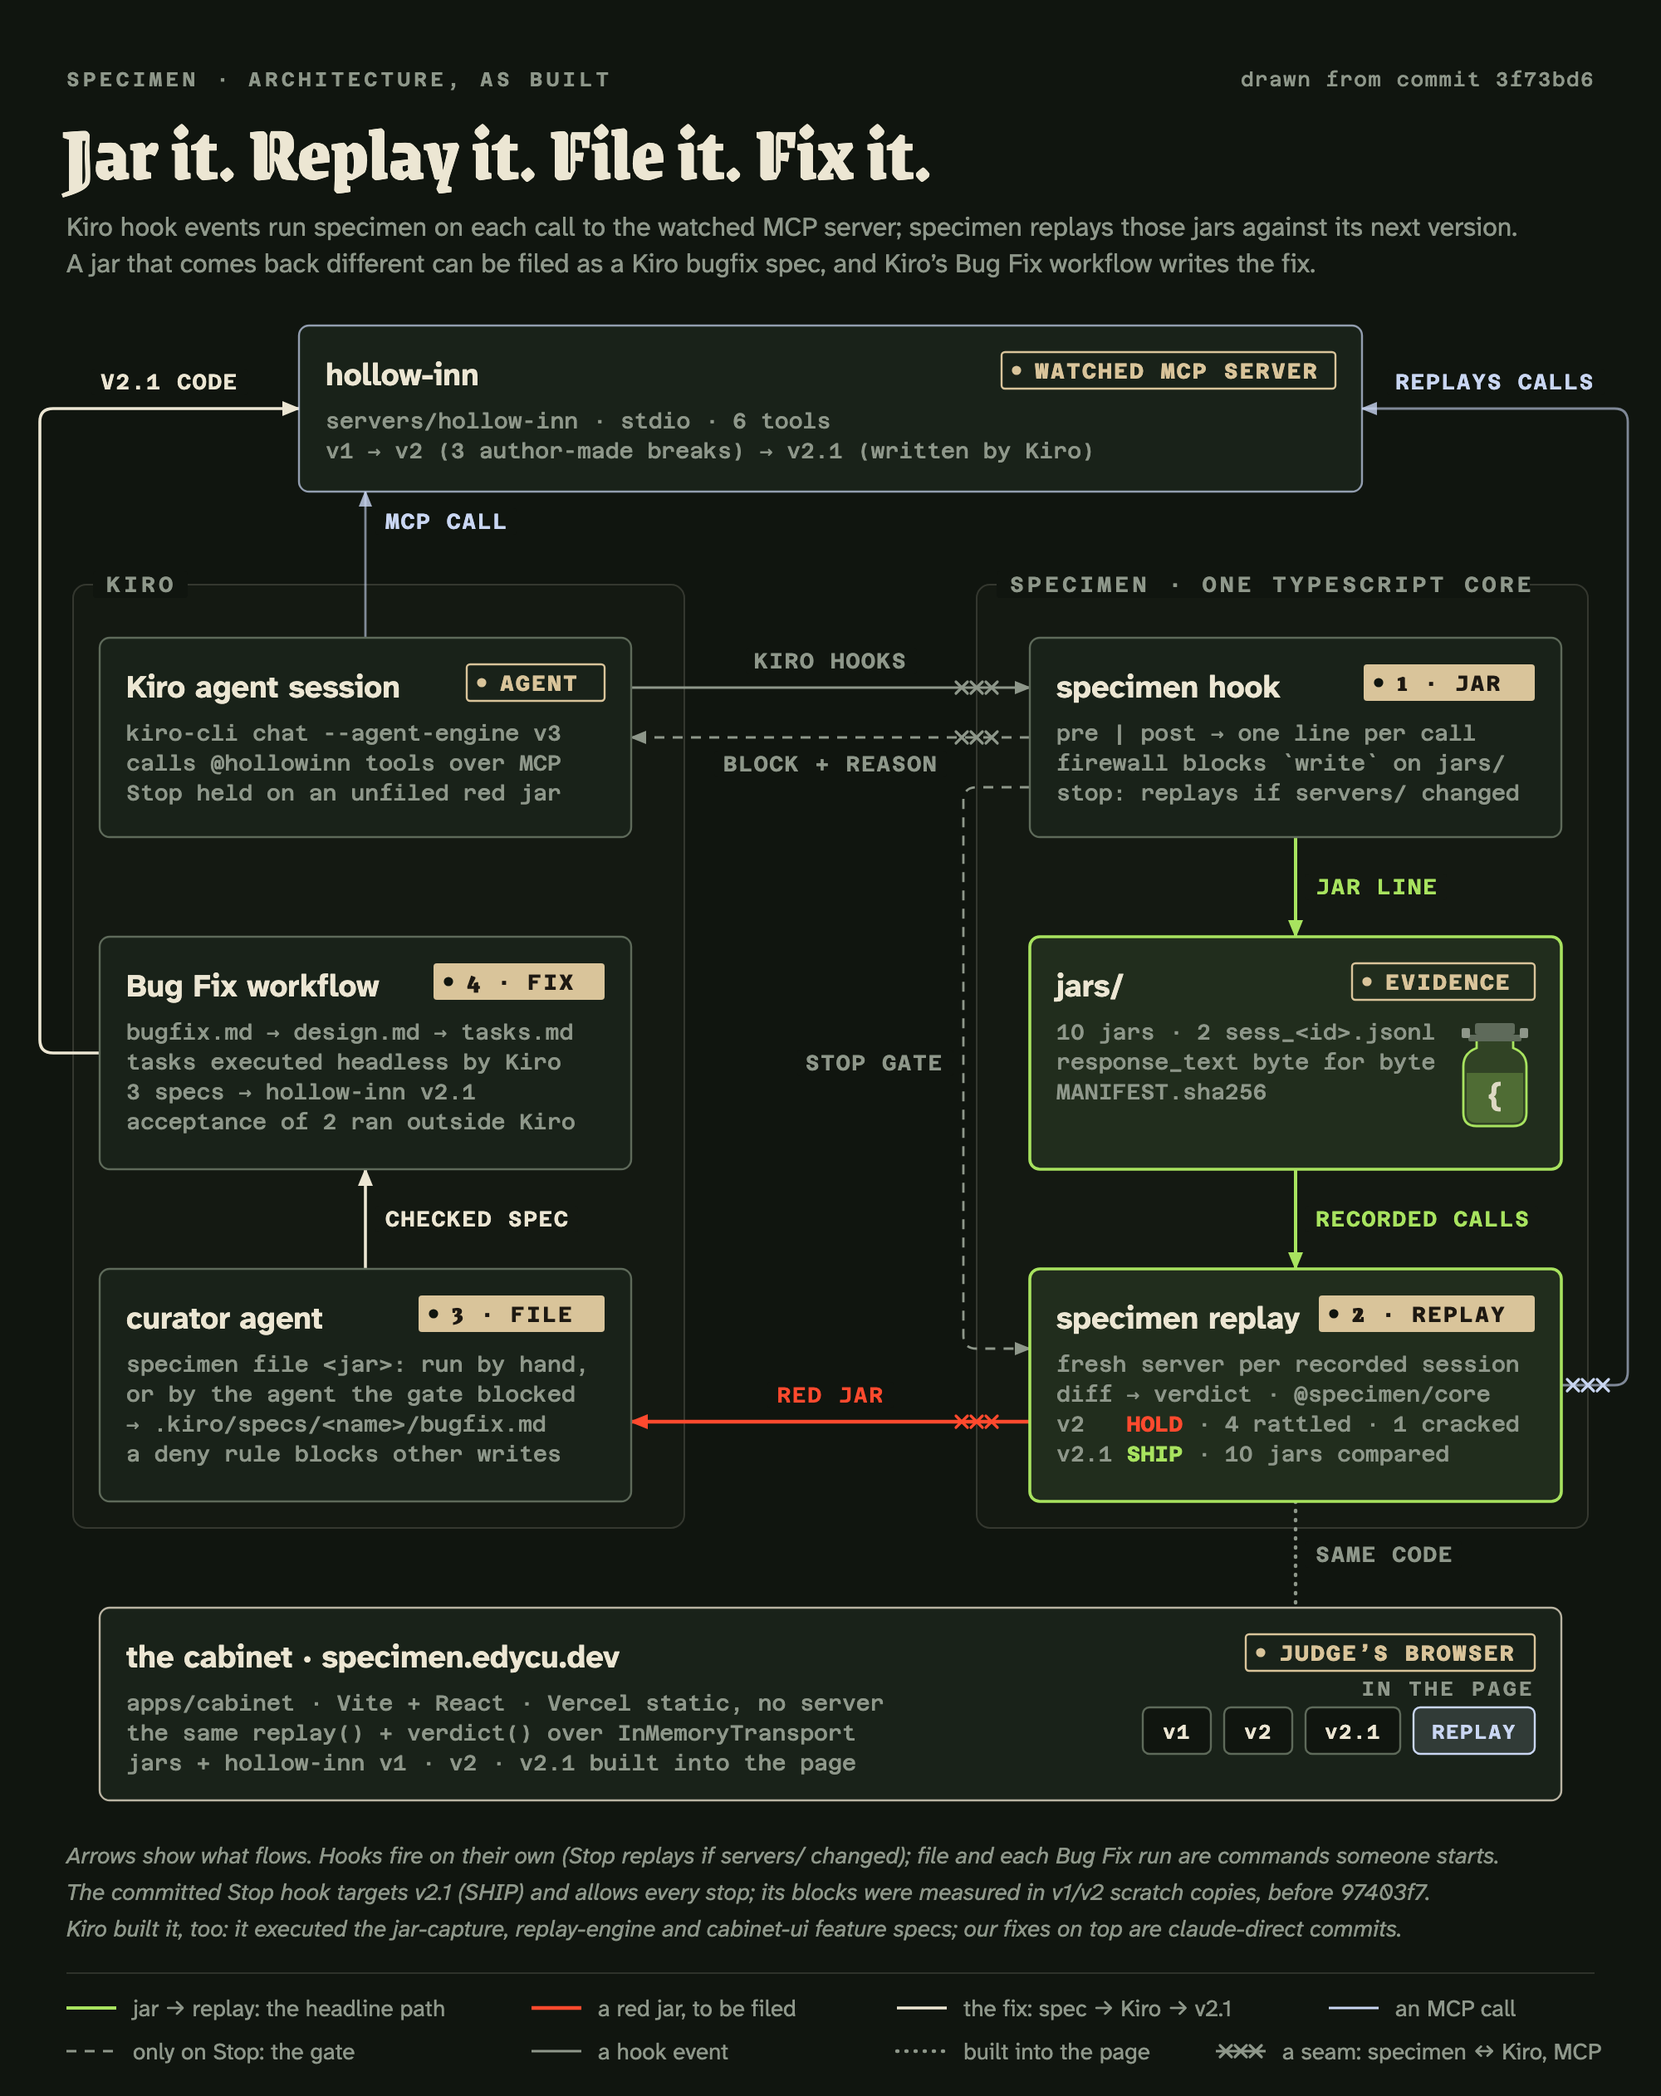
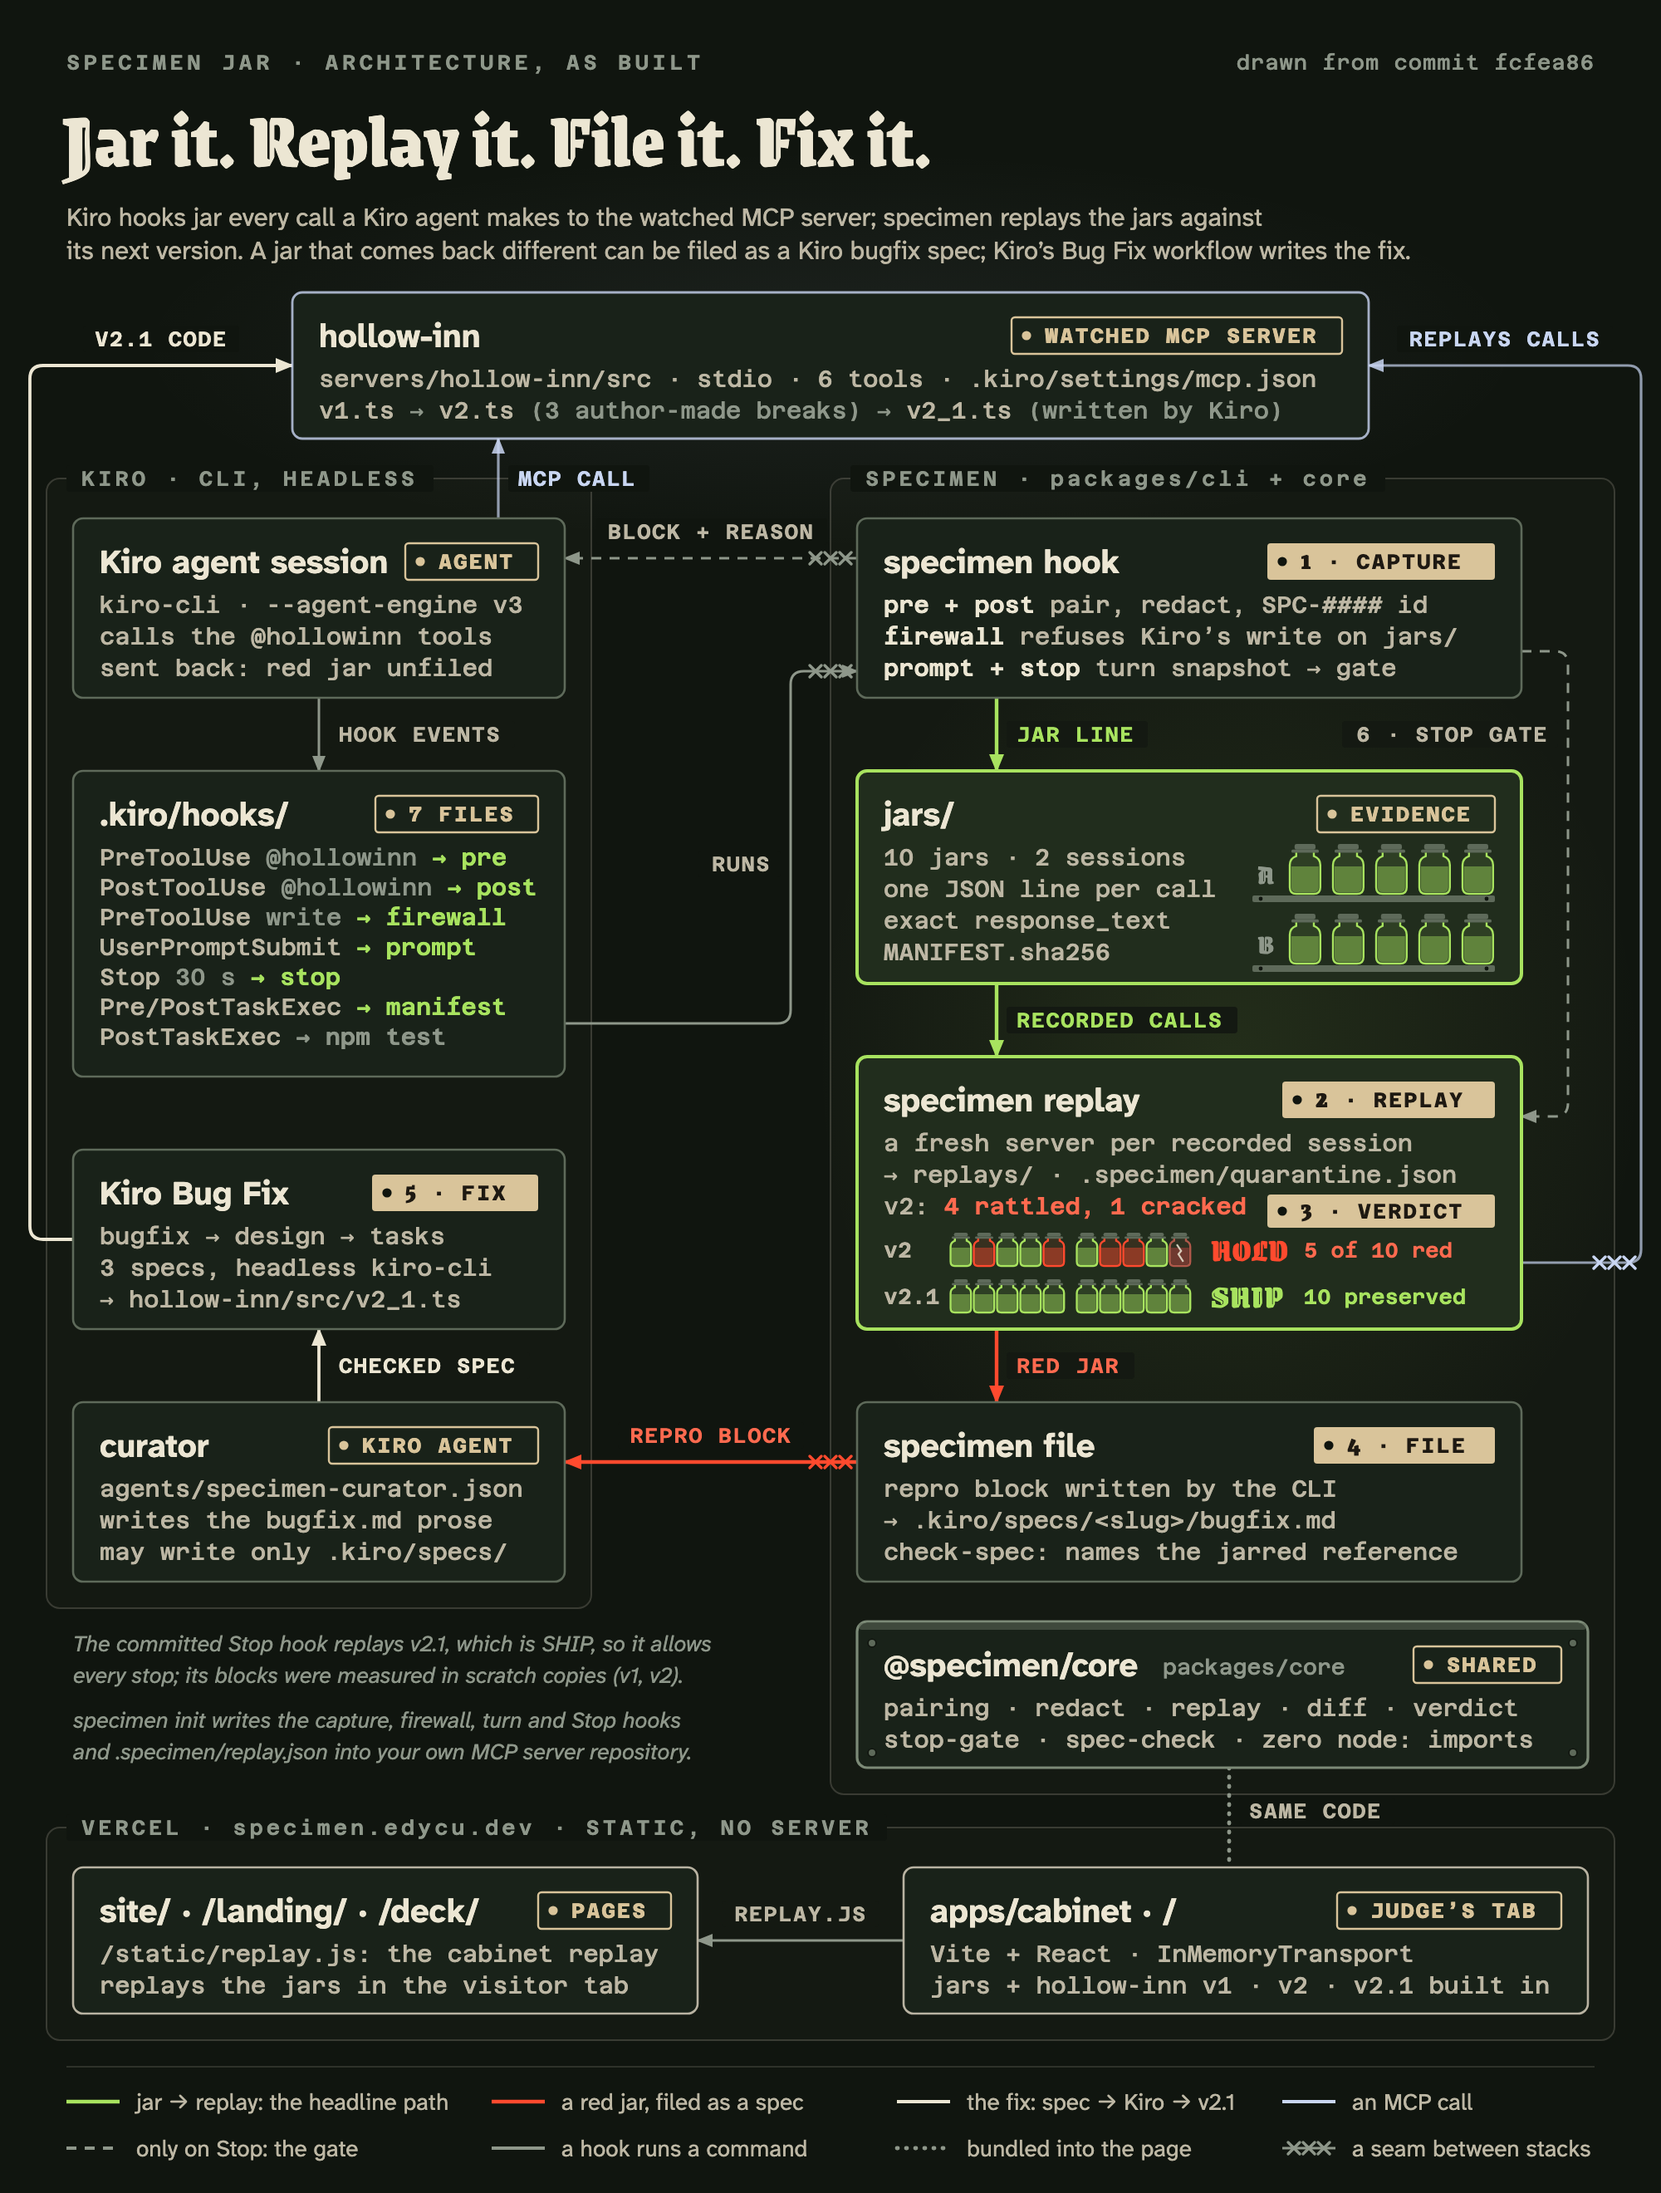
docs: architecture figure v2 — every box a path as built: the 7 .kiro/hooks files, specimen hook (pair, redact, firewall, turn, stop), jars/ racks, replay with the measured v2/v2.1 outcome jar by jar, file + check-spec, curator, Bug Fix, @specimen/core, and the cabinet + landing + deck on Vercel; AR

diff --git a/README.md b/README.md
@@ -57,10 +57,10 @@ reports 2 changes for the v2 server while 5 of the 10 recorded calls come back d
 ## 🏗 Architecture & Tech Stack
 
 <p align="center">
-  <img src="docs/architecture.png" width="100%" alt="specimen architecture, as built. A Kiro agent session (kiro-cli, agent engine v3) calls the hollow-inn MCP server. Kiro's PreToolUse and PostToolUse hook events run specimen hook, which appends one line per call to jars/ (10 jars in 2 session files, response_text byte for byte, MANIFEST.sha256). specimen replay replays the jars against a fresh server per recorded session: v2 HOLD, 4 rattled, 1 cracked; v2.1 SHIP, 10 jars compared. A red jar is filed with specimen file (run by hand, or by the agent the Stop gate blocked): the Kiro curator agent writes .kiro/specs/name/bugfix.md; once check-spec passes, a separate headless prompt runs Kiro's Bug Fix workflow, which wrote hollow-inn v2.1. On Stop, if servers/ changed, the hook replays and holds the agent's turn on an unfiled red jar (the committed hook targets v2.1, so it allows every stop; the blocks were measured in scratch copies). The judge's browser runs the same replay and verdict code in the cabinet at specimen.edycu.dev, a static Vercel page with the jars and hollow-inn v1, v2 and v2.1 built in.">
+  <img src="docs/architecture.png" width="100%" alt="SPECIMEN JAR architecture, as built, in three zones. Kiro: a Kiro agent session (kiro-cli, --agent-engine v3) calls the hollow-inn MCP server; the 7 files in .kiro/hooks/ map its hook events to specimen commands (PreToolUse and PostToolUse on @hollowinn to hook pre and post, PreToolUse write to the firewall, UserPromptSubmit to the turn snapshot, Stop to the gate, Pre/PostTaskExec to the manifest check and npm test). specimen (packages/cli on @specimen/core): hook pre and post pair each call, redact it and append one line to jars/ (10 jars in 2 session files, MANIFEST.sha256); specimen replay replays them against a fresh server per recorded session and writes replays/ and .specimen/quarantine.json; v2 is HOLD (4 rattled, 1 cracked, drawn jar by jar), v2.1 is SHIP (10 preserved). A red jar goes to specimen file, which writes the repro block and runs the Kiro curator agent for .kiro/specs/slug/bugfix.md; check-spec verifies it; Kiro’s Bug Fix workflow ran the 3 specs headless and wrote hollow-inn v2_1.ts. On Stop the hook replays if servers/ changed and can send the agent back while a red jar is unfiled (the committed hook replays v2.1, which is SHIP, so it allows every stop; the blocks were measured in scratch copies). Vercel: the cabinet at / runs the same @specimen/core replay in the visitor’s tab, and /landing/ and /deck/ load it as /static/replay.js.">
 </p>
 
-The loop in one figure, drawn from the code as built: Kiro hook events run specimen on each call, `specimen replay` runs the jars against the next server version, a red jar can be filed as a Kiro bugfix spec (`specimen file`), and Kiro's Bug Fix workflow writes the fix. Contracts and file names: [`ARCHITECTURE.md`](ARCHITECTURE.md).
+The loop in one figure, drawn from the code as built (every box is a path in this repository): the seven Kiro hook files run `specimen hook` on each call, `specimen replay` runs the jars against the next server version (the strips are the measured outcome of each of the 10 jars), a red jar can be filed as a Kiro bugfix spec (`specimen file`), and Kiro's Bug Fix workflow writes the fix. The same `@specimen/core` runs in the CLI and in the browser pages on Vercel. Contracts and file names: [`ARCHITECTURE.md`](ARCHITECTURE.md).
 
 | Part | What | Tech |
 |---|---|---|

diff --git a/ARCHITECTURE.md b/ARCHITECTURE.md
@@ -1,9 +1,9 @@
 # Architecture
 
-Regenerated from the code on 2026-11-25 (file names below are the files in this repository). One TypeScript codebase; the
+Regenerated from the code on 2026-11-26 at commit fcfea86 (file names below are the files in this repository). One TypeScript codebase; the
 same `@specimen/core` runs in the Kiro hook, the `specimen` CLI, the demo MCP server's replay and the browser cabinet.
 
-![specimen architecture, as built: the jar → replay → file → fix loop between Kiro, specimen and the hollow-inn MCP server](docs/architecture.png)
+![SPECIMEN JAR architecture, as built: the seven .kiro/hooks files run specimen on each call to the hollow-inn MCP server; jars → replay → verdict (v2 HOLD jar by jar, v2.1 SHIP) → specimen file → Kiro curator → Kiro Bug Fix → hollow-inn v2_1.ts; the Stop gate; @specimen/core shared with the cabinet, landing and deck on Vercel](docs/architecture.png)
 
 ```
 Kiro agent ──MCP call──▶ hollow-inn (stdio)
@@ -32,6 +32,7 @@ specimen file <jar> ──▶ curator agent ──▶ .kiro/specs/<name>/bugfix.
 | `packages/cli` | The `specimen` command: `hook pre|post|firewall|prompt|stop` (stdin JSON in, jar line / turn snapshot / block decision out, fail-open on bad input), `replay`, `check-spec`, `file`, `init`, `manifest` |
 | `servers/hollow-inn` | The demo MCP server (six tools: `search_rooms`, `get_room`, `quote`, `book`, `list_bookings`, `cancel_booking`). `v1.ts` baseline, `v2.ts` three author-made breaks (`CHANGES.md`), `v2_1.ts` the Kiro-written fix. Money is integer cents, written as a two-decimal literal by `money.ts` |
 | `apps/cabinet` | Vite + React. `browser-replay.ts` runs the real `replay()` and `verdict()` against the real hollow-inn modules over `InMemoryTransport` in the browser; jars, policy files and the committed bugfix specs are imported at build time; it writes nothing and requests no third-party host. Components: shelf of jars, ServerSwitch (v1 / v2 / v2.1), ReplayButton, CountsPair, VerdictPlate, LabReportTable, JarDrawer, SpecViewer, SpoiledTray, GuideStrip |
+| `site/` | The landing page (`/landing/`) and the pitch deck (`/deck/`): static files in `site/public/`, plus `/static/replay.js` built from `site/replay-entry.ts` (the cabinet's replay module), so both pages replay the jars live in the visitor's tab |
 | `spikes/` | Day-1 spike harnesses (S1 browser bundle). Evidence, not product code |
 | `scripts/` | `bench.ts detect|hook|replay`, `seed-check.ts`, `record-sessions.sh`, `consequence-run.sh`, `consequence-extract.mjs`, `kiro-credits.mjs`, `stop-gate-eval.sh`, `stop-gate-live.sh`, `check_submission_readiness.ts` |
 
@@ -56,7 +57,7 @@ specimen file <jar> ──▶ curator agent ──▶ .kiro/specs/<name>/bugfix.
 
 ## Hosting
 
-Static output (`apps/cabinet/dist`) on Vercel, `vercel.json` builds `npm run build -w apps/cabinet`; no server is needed on the judge path.
+Static output (`apps/cabinet/dist`) on Vercel at <https://specimen.edycu.dev/>. `vercel.json` runs `npm run build -w apps/cabinet`, then `npx vite build --config site/vite.config.ts`, which adds `site/public/` (the landing at `/landing/`, the deck at `/deck/`) and `/static/replay.js` (`site/replay-entry.ts`: the cabinet's `browser-replay.ts` bundled on its own, so those two pages run the same replay and verdict code without the React app). No server is needed on the judge path.
 
 ## Not built
 
